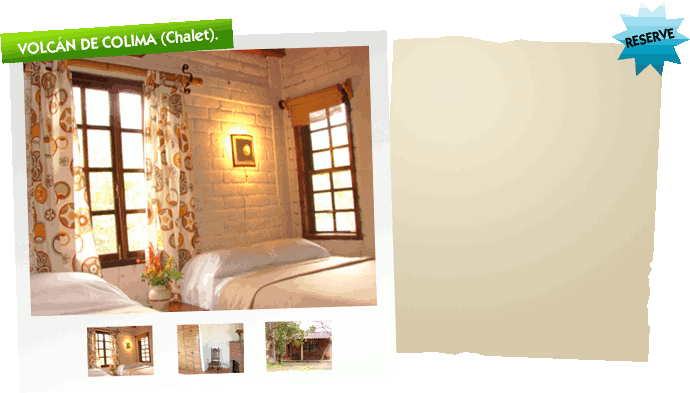
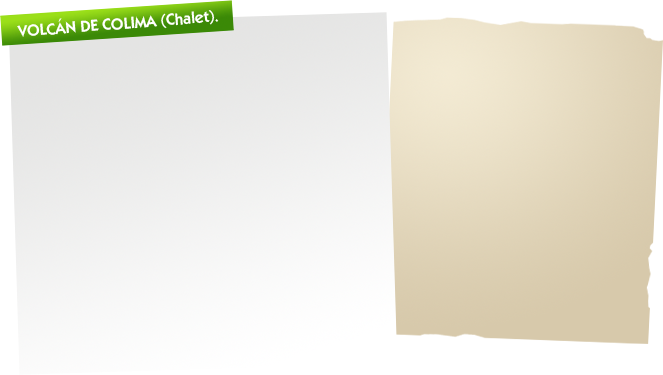
Galería terminada

diff --git a/applications/pages/views/js/gallery-effects.js b/applications/pages/views/js/gallery-effects.js
@@ -1,0 +1,88 @@
+$(document).ready(function(){
+
+	$('#thumbs1 ul li a').hover(
+		function() {
+			var currentBigImage = $('#bigpic1 img').attr('src');
+			var newBigImage = $(this).attr('href');
+			var currentThumbSrc = $(this).attr('rel');
+			switchImage1(newBigImage, currentBigImage, currentThumbSrc);
+		},
+		function() {}
+	);
+
+	
+	function switchImage1(imageHref, currentBigImage, currentThumbSrc) {
+		 
+		var theBigImage = $('#bigpic1 img');
+		
+		if (imageHref != currentBigImage) {
+		
+			theBigImage.fadeOut(250, function(){
+				theBigImage.attr('src', imageHref).fadeIn(250);
+				var newImageDesc = $("#thumbs1 ul li a img[src='"+currentThumbSrc+"']").attr('alt');
+				$('p#desc').empty().html(newImageDesc);
+			});
+			
+			
+		}
+		
+	}
+	
+	$('#thumbs2 ul li a').hover(
+		function() {
+			var currentBigImage = $('#bigpic2 img').attr('src');
+			var newBigImage = $(this).attr('href');
+			var currentThumbSrc = $(this).attr('rel');
+			switchImage2(newBigImage, currentBigImage, currentThumbSrc);
+		},
+		function() {}
+	);
+
+
+	function switchImage2(imageHref, currentBigImage, currentThumbSrc) {
+		 
+		var theBigImage = $('#bigpic2 img');
+		
+		if (imageHref != currentBigImage) {
+		
+			theBigImage.fadeOut(250, function(){
+				theBigImage.attr('src', imageHref).fadeIn(250);
+				var newImageDesc = $("#thumbs2 ul li a img[src='"+currentThumbSrc+"']").attr('alt');
+				$('p#desc').empty().html(newImageDesc);
+			});
+			
+			
+		}
+		
+	}
+	
+	
+	$('#thumbs3 ul li a').hover(
+		function() {
+			var currentBigImage = $('#bigpic3 img').attr('src');
+			var newBigImage = $(this).attr('href');
+			var currentThumbSrc = $(this).attr('rel');
+			switchImage3(newBigImage, currentBigImage, currentThumbSrc);
+		},
+		function() {}
+	);
+
+	
+	function switchImage3(imageHref, currentBigImage, currentThumbSrc) {
+		 
+		var theBigImage = $('#bigpic3 img');
+		
+		if (imageHref != currentBigImage) {
+		
+			theBigImage.fadeOut(250, function(){
+				theBigImage.attr('src', imageHref).fadeIn(250);
+				var newImageDesc = $("#thumbs3 ul li a img[src='"+currentThumbSrc+"']").attr('alt');
+				$('p#desc').empty().html(newImageDesc);
+			});
+			
+			
+		}
+		
+	}
+	
+});

diff --git a/applications/pages/views/css/style.css b/applications/pages/views/css/style.css
@@ -156,3 +156,40 @@ div.reserve a {
 	margin-left: 342px; 
 	margin-top: -35px !important;
 }
+
+/*Gallery*/
+.wrap {
+	#border: 1px solid red;
+	width: 380px;
+	height: 360px;
+	float: left;
+}
+
+#bigpic1, #bigpic2, #bigpic3 {
+	margin-top: 50px;
+	margin-left: 25px;
+}
+
+#thumbs1, #thumbs2, #thumbs3 {
+	#border: 1px solid blue;
+	height: 100px;
+	width: 350px;
+	margin-top: 15px;
+	margin-left: 30px;
+}
+
+#thumbs1 ul, #thumbs2 ul, #thumbs3 ul {
+	width: 400px;
+	margin: 0 !important;
+}
+
+#thumbs1 ul li, #thumbs2 ul li, #thumbs3 ul li{
+	display: inline !important;
+	margin: 0 !important;
+	margin-left: 10px !important;
+}
+
+#thumbs1 ul li a img, #thumbs2 ul li a img, #thumbs3 ul li a img{
+	margin-top: -60px;
+	
+}

diff --git a/applications/pages/views/view.hospedaje.php b/applications/pages/views/view.hospedaje.php
@@ -14,47 +14,146 @@
 				<p> See <span class="uppercased">TRANSPORTATION</span></p>
 				
 				<div id="hospedaje-1">
-					<ul>
-						<li>- Bed for up to 7 people</li>
-						<li>- Porch and terrace</li>
-						<li>- 2 bedrooms</li>
-						<li>- Hall with fireplace</li>
-						<li>- Private bathroom</li>
-						<li>- Kitchen and dinner</li>
-					</ul>
 					
-					<p class="green">
-						<span class="bold">Price: US $150.00 for 7 people, <br />
-						$15.00 for each extra person. </span> <br />
-					</p>	
+					<div class="wrap">
+						<div>
+							<div id="bigpic1">
+								<img src="http://localhost/volcanes/www/applications/pages/views/images/big/1a-big.jpg" alt="iPod Shuffle 16GB Zoom View" />         
+							</div>
+					
+							<div id="thumbs1">
+								<ul>
+									<li>
+										<a href="http://localhost/volcanes/www/applications/pages/views/images/big/1a-big.jpg" rel="images/small/iphone-1-small.jpg">
+											<img src="http://localhost/volcanes/www/applications/pages/views/images/small/1a-small.jpg" alt="iPod Shuffle Front View In Blue!" />
+										</a>
+									</li>
+							
+									<li>
+										<a href="http://localhost/volcanes/www/applications/pages/views/images/big/1b-big.jpg" rel="http://localhost/volcanes/www/applications/pages/views/images/small/iphone-2-small.jpg">
+											<img src="http://localhost/volcanes/www/applications/pages/views/images/small/1b-small.jpg" alt="iPod Shuffle Dual View Grey!" />
+										</a>
+									</li>
+									<li>
+										<a href="http://localhost/volcanes/www/applications/pages/views/images/big/1c-big.jpg" rel="http://localhost/volcanes/www/applications/pages/views/images/small/iphone-3-small.jpg">
+											<img src="http://localhost/volcanes/www/applications/pages/views/images/small/1c-small.jpg" alt="iPod Shuffle 16GB Zoom View" />
+										</a>
+									</li>
+								</ul>
+						
+							</div>
+						</div>     
+					</div>
+					
+					<div>
+						<ul>
+							<li>- Bed for up to 7 people</li>
+							<li>- Porch and terrace</li>
+							<li>- 2 bedrooms</li>
+							<li>- Hall with fireplace</li>
+							<li>- Private bathroom</li>
+							<li>- Kitchen and dinner</li>
+						</ul>
+					
+						<p class="green">
+							<span class="bold">Price: US $150.00 for 7 people, <br />
+							$15.00 for each extra person. </span> <br />
+						</p>
+					</div>
+						
 				</div>
 				
 				<div id="hospedaje-2">
-					<ul>
-						<li>- Bed up to 8 people</li>
-						<li>- 2 bedrooms</li>
-						<li>- Volcano view porch</li>
-						<li>- Foyer</li>
-					</ul>
+					<div class="wrap">
+						<div>
+							<div id="bigpic2">
+								<img src="http://localhost/volcanes/www/applications/pages/views/images/big/2a-big.jpg" alt="iPod Shuffle 16GB Zoom View" />         
+							</div>
 					
-					<p class="green">
-						<span class="bold">Price: US $75.00 for 8 people, <br />
-						$10.00 extra person</span> 
-					</p>	
+							<div id="thumbs2">
+								<ul>
+									<li>
+										<a href="http://localhost/volcanes/www/applications/pages/views/images/big/2a-big.jpg" rel="images/small/iphone-1-small.jpg">
+											<img src="http://localhost/volcanes/www/applications/pages/views/images/small/2a-small.jpg" alt="iPod Shuffle Front View In Blue!" />
+										</a>
+									</li>
+							
+									<li>
+										<a href="http://localhost/volcanes/www/applications/pages/views/images/big/2b-big.jpg" rel="http://localhost/volcanes/www/applications/pages/views/images/small/iphone-2-small.jpg">
+											<img src="http://localhost/volcanes/www/applications/pages/views/images/small/2b-small.jpg" alt="iPod Shuffle Dual View Grey!" />
+										</a>
+									</li>
+									<li>
+										<a href="http://localhost/volcanes/www/applications/pages/views/images/big/2c-big.jpg" rel="http://localhost/volcanes/www/applications/pages/views/images/small/iphone-3-small.jpg">
+											<img src="http://localhost/volcanes/www/applications/pages/views/images/small/2c-small.jpg" alt="iPod Shuffle 16GB Zoom View" />
+										</a>
+									</li>
+								</ul>
+						
+							</div>
+						</div>     
+					</div>
+					<div>					
+						<ul>
+							<li>- Bed up to 8 people</li>
+							<li>- 2 bedrooms</li>
+							<li>- Volcano view porch</li>
+							<li>- Foyer</li>
+						</ul>
+						
+						<p class="green">
+							<span class="bold">Price: US $75.00 for 8 people, <br />
+							$10.00 extra person</span> 
+						</p>
+					
+					</div>	
 				</div>
 				
 				<div id="hospedaje-3">
-					<ul>
-						<li>- For 6 people</li>
-						<li>- 2 bedrooms and a king size bed on the attic</li>
-						<li>- Volcano view porch</li>
-						<li>- Foyer</li>
-					</ul>
+					<div class="wrap">
+						<div>
+							<div id="bigpic3">
+								<img src="http://localhost/volcanes/www/applications/pages/views/images/big/3a-big.jpg" alt="iPod Shuffle 16GB Zoom View" />         
+							</div>
 					
-					<p class="green">
-						<span class="bold">Price: US $75.00 for  6 people, <br />
-						$10.00 for each extra person up to 10</span> 
-					</p>	
+							<div id="thumbs3">
+								<ul>
+									<li>
+										<a href="http://localhost/volcanes/www/applications/pages/views/images/big/3a-big.jpg" rel="images/small/iphone-1-small.jpg">
+											<img src="http://localhost/volcanes/www/applications/pages/views/images/small/3a-small.jpg" alt="iPod Shuffle Front View In Blue!" />
+										</a>
+									</li>
+							
+									<li>
+										<a href="http://localhost/volcanes/www/applications/pages/views/images/big/3b-big.jpg" rel="http://localhost/volcanes/www/applications/pages/views/images/small/iphone-2-small.jpg">
+											<img src="http://localhost/volcanes/www/applications/pages/views/images/small/3b-small.jpg" alt="iPod Shuffle Dual View Grey!" />
+										</a>
+									</li>
+									<li>
+										<a href="http://localhost/volcanes/www/applications/pages/views/images/big/3c-big.jpg" rel="http://localhost/volcanes/www/applications/pages/views/images/small/iphone-3-small.jpg">
+											<img src="http://localhost/volcanes/www/applications/pages/views/images/small/3c-small.jpg" alt="iPod Shuffle 16GB Zoom View" />
+										</a>
+									</li>
+								</ul>
+						
+							</div>
+						</div>     
+					</div>
+					
+					<div>
+					
+						<ul>
+							<li>- For 6 people</li>
+							<li>- 2 bedrooms and a king size bed on the attic</li>
+							<li>- Volcano view porch</li>
+							<li>- Foyer</li>
+						</ul>
+						
+						<p class="green">
+							<span class="bold">Price: US $75.00 for  6 people, <br />
+							$10.00 for each extra person up to 10</span> 
+						</p>
+					</div>	
 				</div>
 				
 			</div>

diff --git a/applications/pages/controllers/controller.pages.php b/applications/pages/controllers/controller.pages.php
@@ -21,9 +21,12 @@ class Pages_Controller extends ZP_Controller {
 	
 	public function index() {
 		$this->CSS("style", $this->application);
-		
+		$this->js("gallery-effects", $this->application);
+			
 		if(isLang() and segment(2)) {
 			if(segment(2) === "souvenirs") {
+				$this->getView(segment(2));
+			} elseif(segment(2) === "hospedaje") {
 				$this->getView(segment(2));
 			} else {
 				$this->getBySlug(segment(2));
